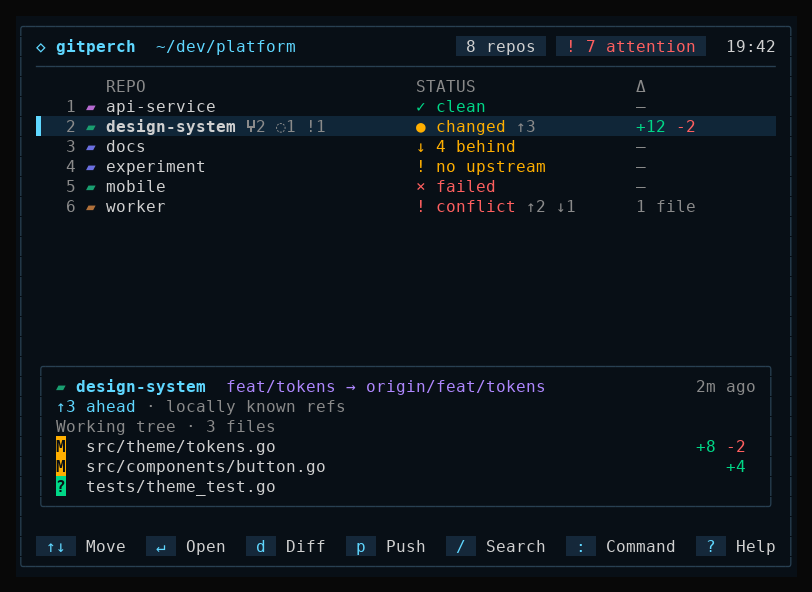
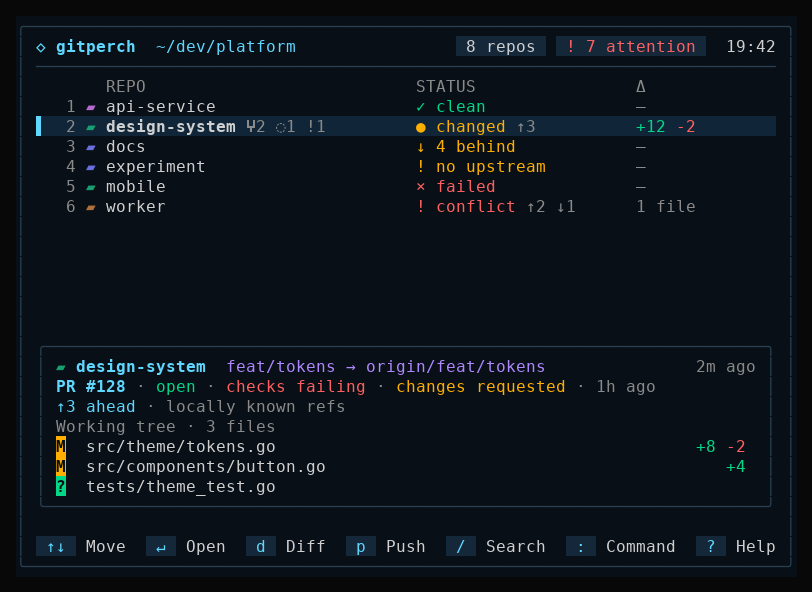
feat: show GitHub pull requests in the dashboard

Changed region(s): [[0.0616, 0.6081, 0.7081, 0.6689], [0.8621, 0.6081, 0.9544, 0.6689], [0.7389, 0.6385, 0.8005, 0.6689]]

diff --git a/internal/tui/capture_test.go b/internal/tui/capture_test.go
@@ -24,6 +24,10 @@ func captureRows() []app.Row {
 			rows[i].Status.LastActivity = captureNow.Add(-age)
 		}
 	}
+	// design-system's branch has an open pull request with failing checks.
+	rows[1].GitHub = &app.GitHubInfo{Host: "github.com", Repository: "acme/design-system", Branch: "feat/tokens", CheckedAt: captureNow.Add(-2 * time.Minute),
+		PullRequests: []app.PullRequest{{Number: 128, Title: "Add semantic theme tokens", URL: "https://github.com/acme/design-system/pull/128", State: app.PullRequestOpen,
+			BaseRepository: "acme/design-system", Base: "main", IntoDefaultBranch: true, Checks: app.ChecksFailing, Review: app.ReviewChangesRequested, UpdatedAt: captureNow.Add(-time.Hour)}}}
 	// design-system owns two linked worktrees: one likely finished, one stale.
 	main := rows[1].Path
 	rows[1].Worktree = &app.WorktreeInfo{Main: true, MainPath: main}

diff --git a/cmd/gitperch/tui.go b/cmd/gitperch/tui.go
@@ -41,6 +41,10 @@ func runTUI(ctx context.Context, cfg config.Config, ws config.Workspace, noColor
 	model.EnableCleanup(actions.CleanupSupported(ctx))
 	model.EnableDetails(read.Details)
 	model.EnablePatch(read.Patch)
+	// Without gh, Git 2.36 or [github] enabled, the dashboard never runs gh.
+	if gh, _, err := newGitHub(ctx, cfg, read); err == nil {
+		model.EnableGitHub(gh)
+	}
 	model.Configure(strings.Join(ws.Paths, ", "), cfg.UI.Icons, cfg.UI.DefaultFocus)
 	model.SetAutoRefresh(time.Duration(cfg.UI.RefreshSeconds) * time.Second)
 	opts := []tea.ProgramOption{tea.WithContext(ctx), tea.WithInput(os.Stdin), tea.WithOutput(out)}

diff --git a/docs/usage.md b/docs/usage.md
@@ -16,7 +16,8 @@ The table shows independent changes, untracked entries, conflicts, branch, upstr
 and locally known ahead/behind counts. `?` means no valid comparison is available;
 it never means synchronized. `changes:N` counts tracked status entries once even
 when both the index and worktree changed. Status performs no remote fetch and
-uses Git's no-optional-locks mode. JSON schema version 1 has deterministic repository
+uses Git's no-optional-locks mode; `--github` adds pull request state (see
+[GitHub pull requests](#github-pull-requests)). JSON schema version 1 has deterministic repository
 ordering, raw path identity, inspection timestamps, and per-repository errors.
 Terminal output escapes control characters and redacts credentials in URLs.
 
@@ -30,7 +31,7 @@ worktrees of one repository are judged independently.
 | --- | --- |
 | critical | `inspection_failed`, `conflicts`, `operation_in_progress` (merge, rebase, cherry-pick, revert, bisect), `action_failed` (dashboard only: a fetch, push or pull failed or has an unknown outcome) |
 | high | `uncommitted_changes` (staged or unstaged), `untracked_files`, `unpushed_commits`, `diverged`, `detached_commits` (a detached HEAD no branch, remote-tracking branch or tag contains) |
-| medium | `behind_upstream`, `no_upstream`, `tracking_unknown` (the upstream's local tracking ref is missing), `no_commits`, `stale_worktree`, `worktree_finished` and `worktree_idle` (a linked worktree's [lifecycle](#worktree-lifecycle)) |
+| medium | `behind_upstream`, `no_upstream`, `tracking_unknown` (the upstream's local tracking ref is missing), `no_commits`, `stale_worktree`, `worktree_finished` and `worktree_idle` (a linked worktree's [lifecycle](#worktree-lifecycle)), and with [GitHub pull requests](#github-pull-requests) `pr_checks_failing` and `pr_changes_requested` (the branch's open pull request) |
 | low | Nothing to do: clean and synchronized, a detached HEAD a ref contains, a locked or bare worktree |
 
 The level is the most severe reason. Levels above low count as needing
@@ -38,7 +39,8 @@ attention in the dashboard header, Focus and collapsed-group badges; attention
 order (`s`) sorts by level, then name and path. The table's `ATTENTION` column
 and each JSON repository's `attention` object (`{"level": "high", "reasons":
 ["uncommitted_changes", "unpushed_commits"]}`, reasons most severe first and
-`[]` at low) carry the same result. Attention describes Git state; it does not
+`[]` at low) carry the same result. Attention describes Git state, plus the
+branch's pull request when gh is available; it does not
 decide what to do, and age alone never raises it: only a clean linked
 worktree with nothing unfinished can become `worktree_idle`.
 
@@ -421,6 +423,55 @@ after revalidation, and configured Git hooks still run.
 TOML config. A deadline limits how long gitperch waits; it cannot guarantee
 that a remote did not receive a push before the connection ended.
 
+## GitHub pull requests
+
+With the [GitHub CLI](https://cli.github.com) (`gh`) installed and logged in,
+gitperch shows each branch's pull request next to its Git status. gh does all
+authentication, GitHub Enterprise included; gitperch never reads a token. The
+integration needs Git 2.36 or newer and is off without gh or with
+`[github] enabled = false`:
+
+```toml
+[github]
+enabled = true                  # default
+hosts = ["github.example.com"]  # GitHub Enterprise Server hosts besides github.com
+```
+
+A branch is looked up when its upstream's remote URL names `github.com` (or
+`www.github.com`, `ssh.github.com`) or a configured host. SSH host aliases
+from `~/.ssh/config` are not resolved, and triangular setups, which push
+somewhere other than the upstream, are not matched. gitperch reads the
+upstream's remote and branch from Git and asks GitHub once per repository,
+through `gh api graphql`, for the pull requests whose head is exactly that
+branch of that repository, including pull requests from a fork into its
+parent; the same branch name in someone else's fork never matches. gh runs
+outside your repositories and sends GitHub the repository owners, names and
+branch names.
+
+The dashboard looks branches up in the background after each scan and reuses
+a result for 5 minutes. `r`, returning from a shell or LazyGit, and a finished
+batch recheck sooner, at most every 30 seconds per branch; automatic refresh
+never forces a recheck. A failed lookup shows why, such as
+`gh is not logged in to github.com — run gh auth login`, and keeps the
+earlier result with its age. GitHub data never adds workspace warnings or
+changes an exit code.
+
+`gitperch status --github` looks every branch up before printing; without the
+flag `status` contacts nothing. It exits 2 when GitHub use is disabled, gh is
+missing or Git is older than 2.36. Failed lookups are reported per repository
+and on one stderr line, and leave the exit code alone. The table's STATE
+column adds markers such as `pr #42 open, checks failing`, and JSON adds a
+`github` object per repository (schema version still 1):
+
+| Field | Meaning |
+| --- | --- |
+| `host`, `repository`, `branch` | The upstream on GitHub, such as `github.com`, `acme/widgets` and `feat/x` |
+| `pull_requests` | Up to five, open first, then the most recently updated: `number`, `title`, `url`, `state` (`open`, `merged`, `closed`), `draft`, `base_repository`, `base`, `into_default_branch`, `head_oid`, `review` (`approved`, `changes_requested`, `review_required`), `checks` (`passing`, `failing`, `pending`), `merged_at`, `updated_at` |
+| `checked_at` | When the pull requests were read |
+| `error` | Why the latest lookup failed, if it did |
+
+gitperch never creates, merges, approves or comments on pull requests.
+
 ## Authentication and limits
 
 Background Git commands have no interactive terminal or askpass prompt. Normal
@@ -431,7 +482,8 @@ appears as a per-repository action failure. Git hooks and helpers run with your
 normal user permissions; gitperch is not a sandbox for untrusted repositories.
 
 The dashboard does not stage, commit, stash, reset, clean, rebase, resolve
-conflicts, create branches, configure upstreams, or force push. It does not
+conflicts, create branches, configure upstreams, force push, or create, merge
+or comment on pull requests. It does not
 force-remove worktrees or delete unmerged work; the only branches it deletes
 are fully merged ones, after review. It does not support triangular push workflows, multiple push URLs, arbitrary push
 refspecs, or headless bulk mutation. See [plan.md](plan.md) for the full v0.1

diff --git a/docs/ui.md b/docs/ui.md
@@ -75,6 +75,18 @@ ANSI cell measurement handles wide characters and colored strings. Bubble Tea
 converts theme colors to the detected terminal profile, including 256/16-color
 terminals. `--no-color`, `NO_COLOR`, and ASCII icons remain supported.
 
+## Pull requests
+
+With gh available ([GitHub pull requests](usage.md#github-pull-requests)), a
+branch whose Git state is otherwise quiet shows its pull request in the status
+column: `× checks #42` and `! changes #42` in amber, and `✓ PR #42` for an open
+pull request with nothing to do. The preview card adds a line under its header,
+such as `PR #42 · open · checks failing · changes requested · 3h ago`, and drops
+it before any changed file when the card is at its smallest. The details
+Overview has a Pull request section with the title, `base ← head`, checks,
+review, URL, up to three earlier pull requests of the branch and when GitHub
+was asked. While lookups run, the header shows `checking GitHub`.
+
 ## Worktrees in the list
 
 A repository with linked worktrees shows a badge while collapsed, for example
@@ -189,10 +201,11 @@ application dependencies.
 
 ## Deliberately unavailable
 
-Agents, semantic agent messages/waiting states, tests, pull requests and tasks have
+Agents, semantic agent messages/waiting states, tests and tasks have
 no real backend integration here, so no fabricated counters, columns, tabs or
-buttons appear. The reference mockup's AGENT column, agent badge and Agent tab,
-Commit, Open pull request, Sync all and Start agent are therefore absent, and `a`
+buttons appear. Pull requests come only from gh and are read-only: gitperch
+never creates, merges or comments on them. The reference mockup's AGENT column, agent badge and Agent tab,
+Commit, Create pull request, Sync all and Start agent are therefore absent, and `a`
 and `s` keep their existing select-all and sort bindings. The detail-loader and command registry are the seams for later
 integration. Stage/commit/conflict resolution are available through the real shell
 or optional LazyGit, not new embedded mutation workflows. Line counts are fetched

diff --git a/docs/development.md b/docs/development.md
@@ -9,8 +9,9 @@
 - `make dist` uses GNU tar for reproducible archives, so build release
   archives on Linux.
 - Optional: [LazyGit](https://github.com/jesseduffield/lazygit) for the
-  in-dashboard LazyGit launcher, and Python with `pillow` and `pyte` to
-  regenerate PNG render captures.
+  in-dashboard LazyGit launcher, the [GitHub CLI](https://cli.github.com) for
+  pull request status, and Python with `pillow` and `pyte` to regenerate PNG
+  render captures.
 
 ## Common tasks
 
@@ -73,6 +74,8 @@ missing-upstream, failed-remote and linked-worktree scenarios.
 
 - Tests that mutate Git state use temporary repositories and local bare
   remotes. Never point tests at personal or work remotes.
+- Tests never run the real `gh` or contact GitHub (CI runners have gh
+  installed): they write fake `gh` executables or use in-memory fakes.
 - `testdata/git-status` holds real porcelain v2 output; set
   `GITPERCH_UPDATE_FIXTURES=1` to recapture it.
 - TUI render captures live in `docs/captures`. See
@@ -95,6 +98,7 @@ internal/app/        status loading, action plans and execution
 internal/config/     TOML configuration and workspace resolution
 internal/discovery/  repository discovery with depth and symlink safety
 internal/git/        Git CLI runner, porcelain parsing and sync commands
+internal/github/     gh runner, remote URL parsing and pull request queries
 internal/repository/ repository identity and status model
 internal/tui/        Bubble Tea v2 interface
 scripts/             demo, dev launcher, capture rendering and release tooling
@@ -102,5 +106,5 @@ testdata/            recorded Git output used by tests
 docs/                user guides, design notes, render captures and logo files
 ```
 
-Domain logic stays independent of the TUI, and Git is always invoked through
-argument arrays, never through a shell.
+Domain logic stays independent of the TUI, and Git and gh are always invoked
+through argument arrays, never through a shell.

diff --git a/CHANGELOG.md b/CHANGELOG.md
@@ -7,6 +7,21 @@ and this project adheres to [Semantic Versioning](https://semver.org/spec/v2.0.0
 
 ## [Unreleased]
 
+### Added
+
+- With the GitHub CLI (`gh`) installed and logged in, the dashboard shows each
+  branch's pull request: open, draft, merged or closed, its review decision
+  and CI checks. They appear in the status column (`× checks #42`,
+  `! changes #42`, `✓ PR #42`), on a preview line and in a Pull request
+  section of the details. Failing checks and requested changes raise medium
+  attention (`pr_checks_failing`, `pr_changes_requested`). Lookups run in the
+  background, are reused for five minutes and are never forced by automatic
+  refresh. `[github] enabled = false` turns them off and `[github] hosts`
+  adds GitHub Enterprise hosts.
+- `gitperch status --github` adds the same data: a `github` object per
+  repository in JSON and STATE markers in the table. Without the flag,
+  `status` still contacts nothing.
+
 ## [0.4.1-rc.1] - 2026-10-08
 
 ### Fixed

diff --git a/docs/plan.md b/docs/plan.md
@@ -51,6 +51,12 @@ Staging, commits, diffs, conflict resolution, rebasing, force push, deletion, au
 > [the worktree and branch cleanup design](superpowers/specs/2026-10-06-worktree-and-branch-cleanup-design.md).
 > Everything else excluded here, including force removal, stays excluded.
 
+> Update 2026-10-10: read-only pull request state through the GitHub CLI,
+> and Clean up accepting a pull request merged with exactly the local commit,
+> are in scope under
+> [the GitHub CLI integration design](superpowers/specs/2026-10-10-github-cli-integration-design.md).
+> Creating, merging or commenting on pull requests stays excluded.
+
 Bare repositories are not dashboard targets. Submodules contribute to their parent status but are not recursively managed. A nested repository can be included by explicitly configuring it as a root.
 
 ## 4. Technology and structure

diff --git a/README.md b/README.md
@@ -77,6 +77,9 @@ works less like a directory browser and more like an **attention list**.
   multi-select.
 - **Scriptable status**: `gitperch status` prints a plain table or versioned
   JSON for scripts, CI and agent tooling.
+- **Pull requests** (optional, with [gh](https://cli.github.com)): each
+  branch's pull request, review and CI checks in the dashboard and in
+  `gitperch status --github`.
 
 ## Conservative by design
 
@@ -214,6 +217,9 @@ ignore_dirs = ["node_modules", "vendor", "target", ".cache", ".next", "dist", "b
 [ui]
 icons = "unicode"     # or "ascii", "nerd"
 refresh_seconds = 30  # automatic local status refresh; 0 turns it off
+
+[github]
+enabled = true        # use gh, when installed and logged in, for pull requests
 ```
 
 Pick a workspace with `gitperch --workspace agents`. The

diff --git a/AGENTS.md b/AGENTS.md
@@ -24,6 +24,9 @@ go run ./cmd/gitperch status --json .
   `internal/config`; the TUI (`internal/tui`) only renders and dispatches.
 - Invoke Git only through the runner in `internal/git` with argument arrays.
   Never interpolate into shell strings.
+- Invoke gh only through the runner in `internal/github`, with argument arrays
+  and values in `-f` fields (never `-F`). gitperch only reads from GitHub.
+  Tests use fake gh executables, never the real gh.
 - Never add Git mutations beyond fetch, push of reviewed commits and
   fast-forward-only pull without an agreed design. No force push, reset,
   stash, clean, commit or rebase.

diff --git a/CONTRIBUTING.md b/CONTRIBUTING.md
@@ -54,7 +54,7 @@ demo workspace, render captures and the auto-rebuilding launcher.
   task and test views need real integrations, not placeholders.
 - **Domain logic independent of the TUI.** Keep Git and planning code in
   `internal/` packages that the TUI only calls.
-- **Git via argument arrays.** Never build shell command strings.
+- **Git and gh via argument arrays.** Never build shell command strings. Tests use fake gh executables and never run the real gh.
 - **Small and dependable.** Avoid speculative frameworks and new dependencies;
   pin any dependency you add in `go.mod`/`go.sum`.
 
